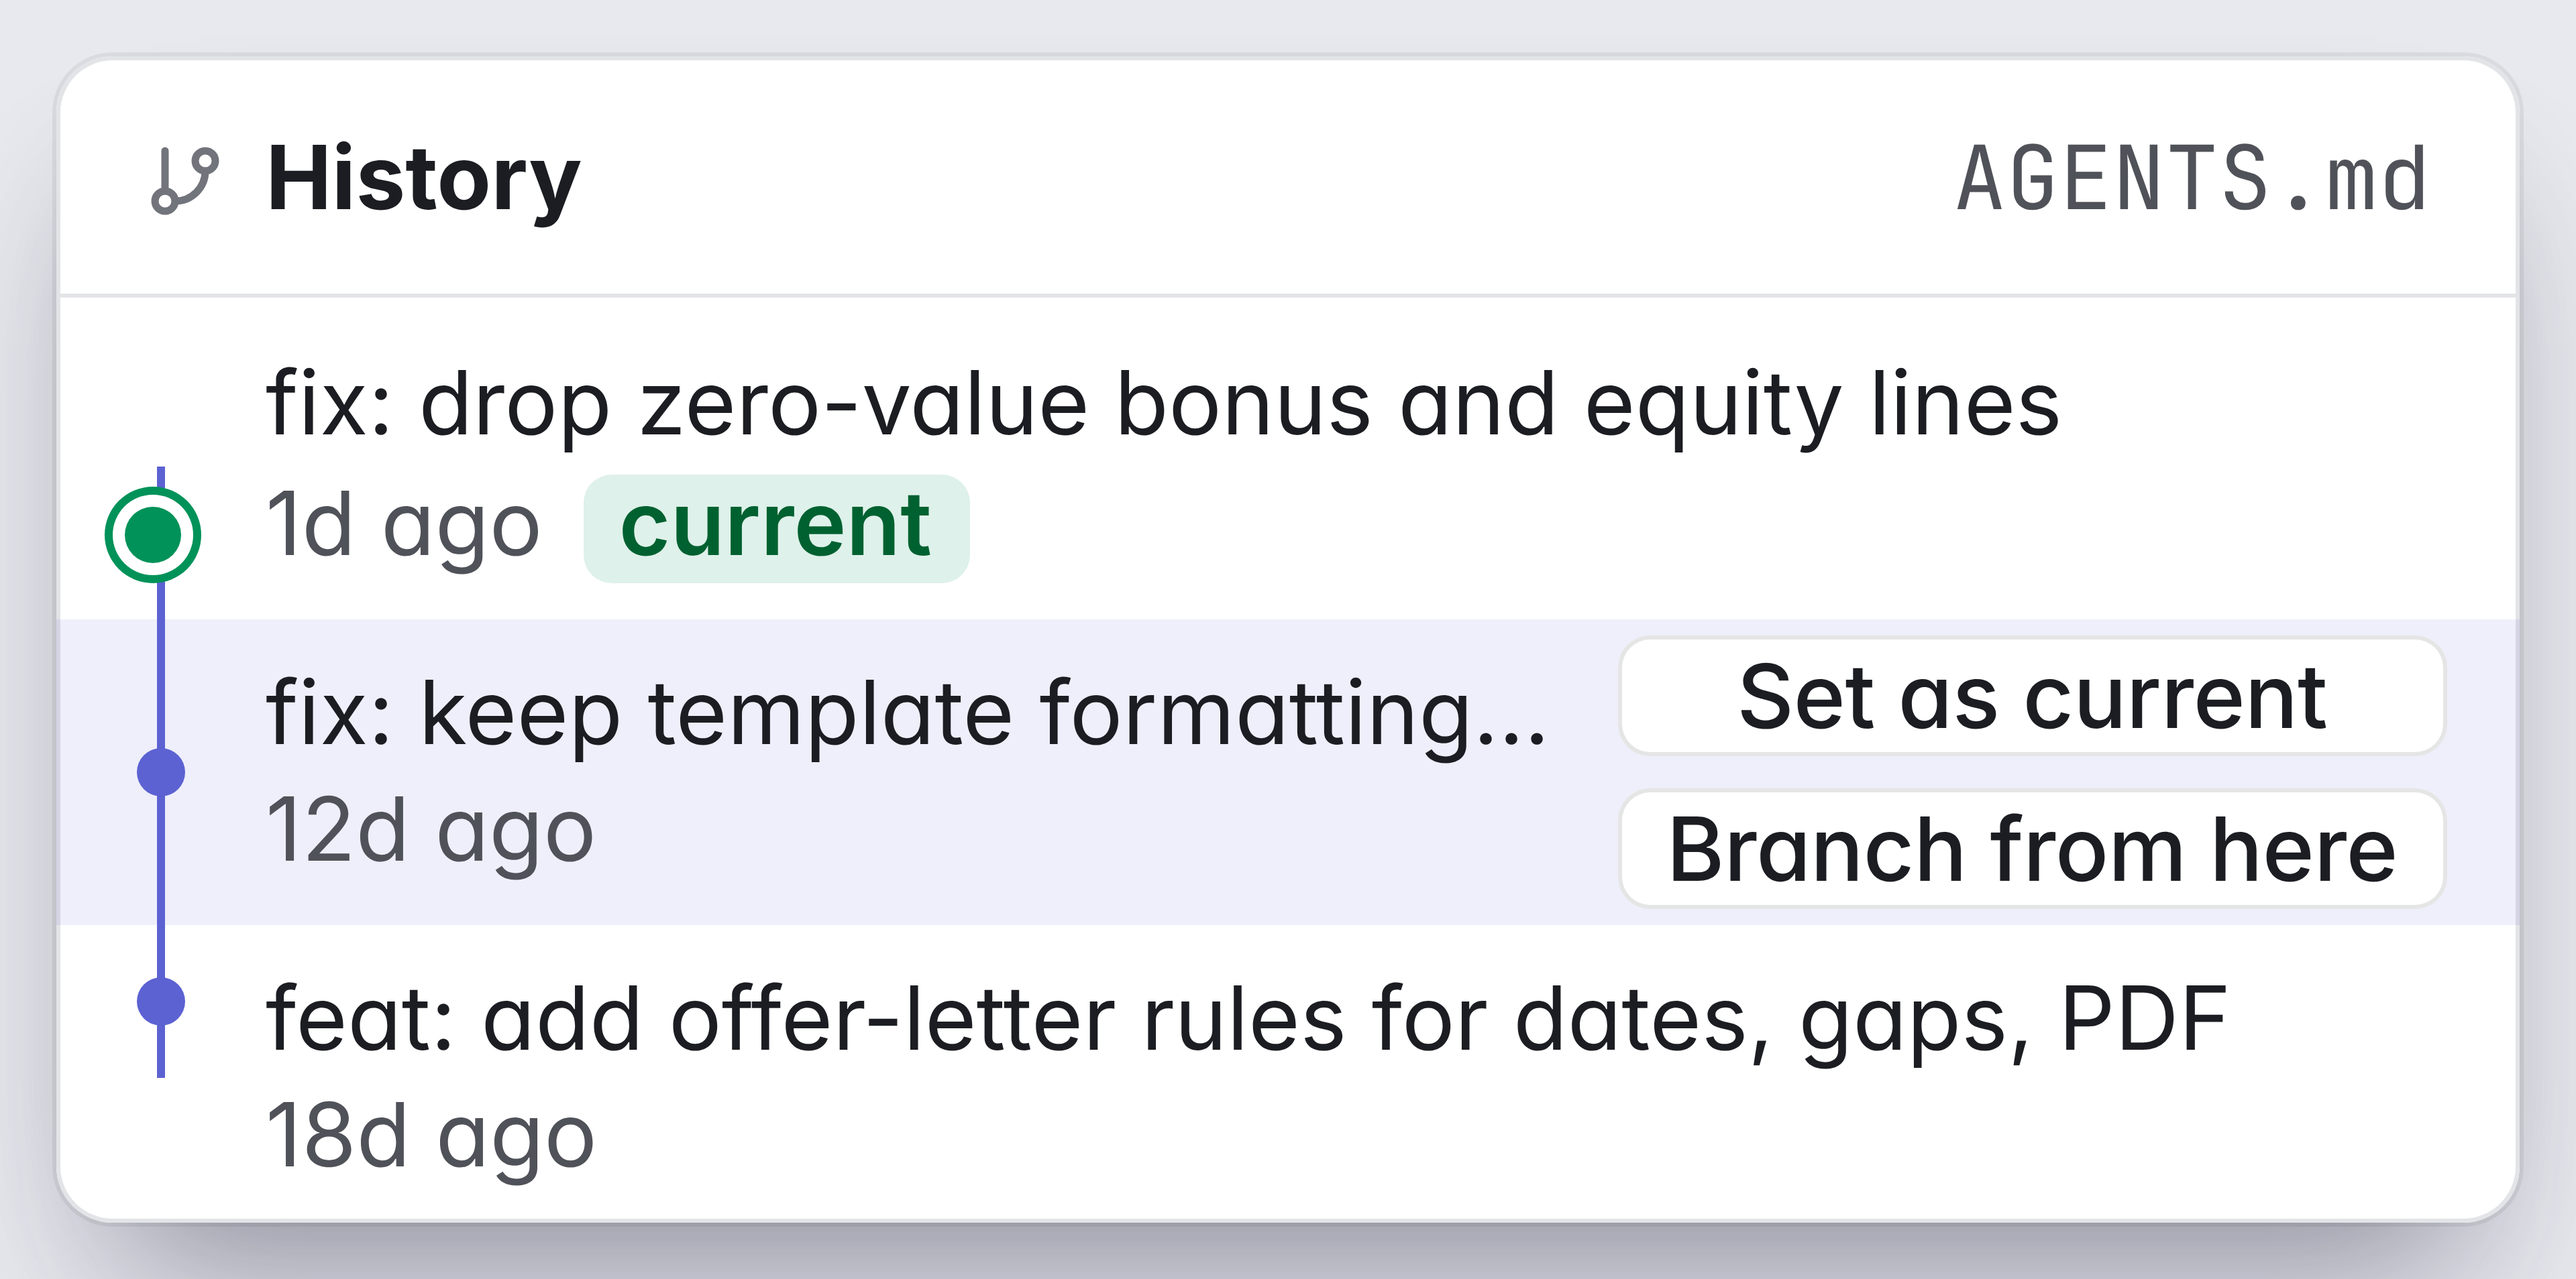
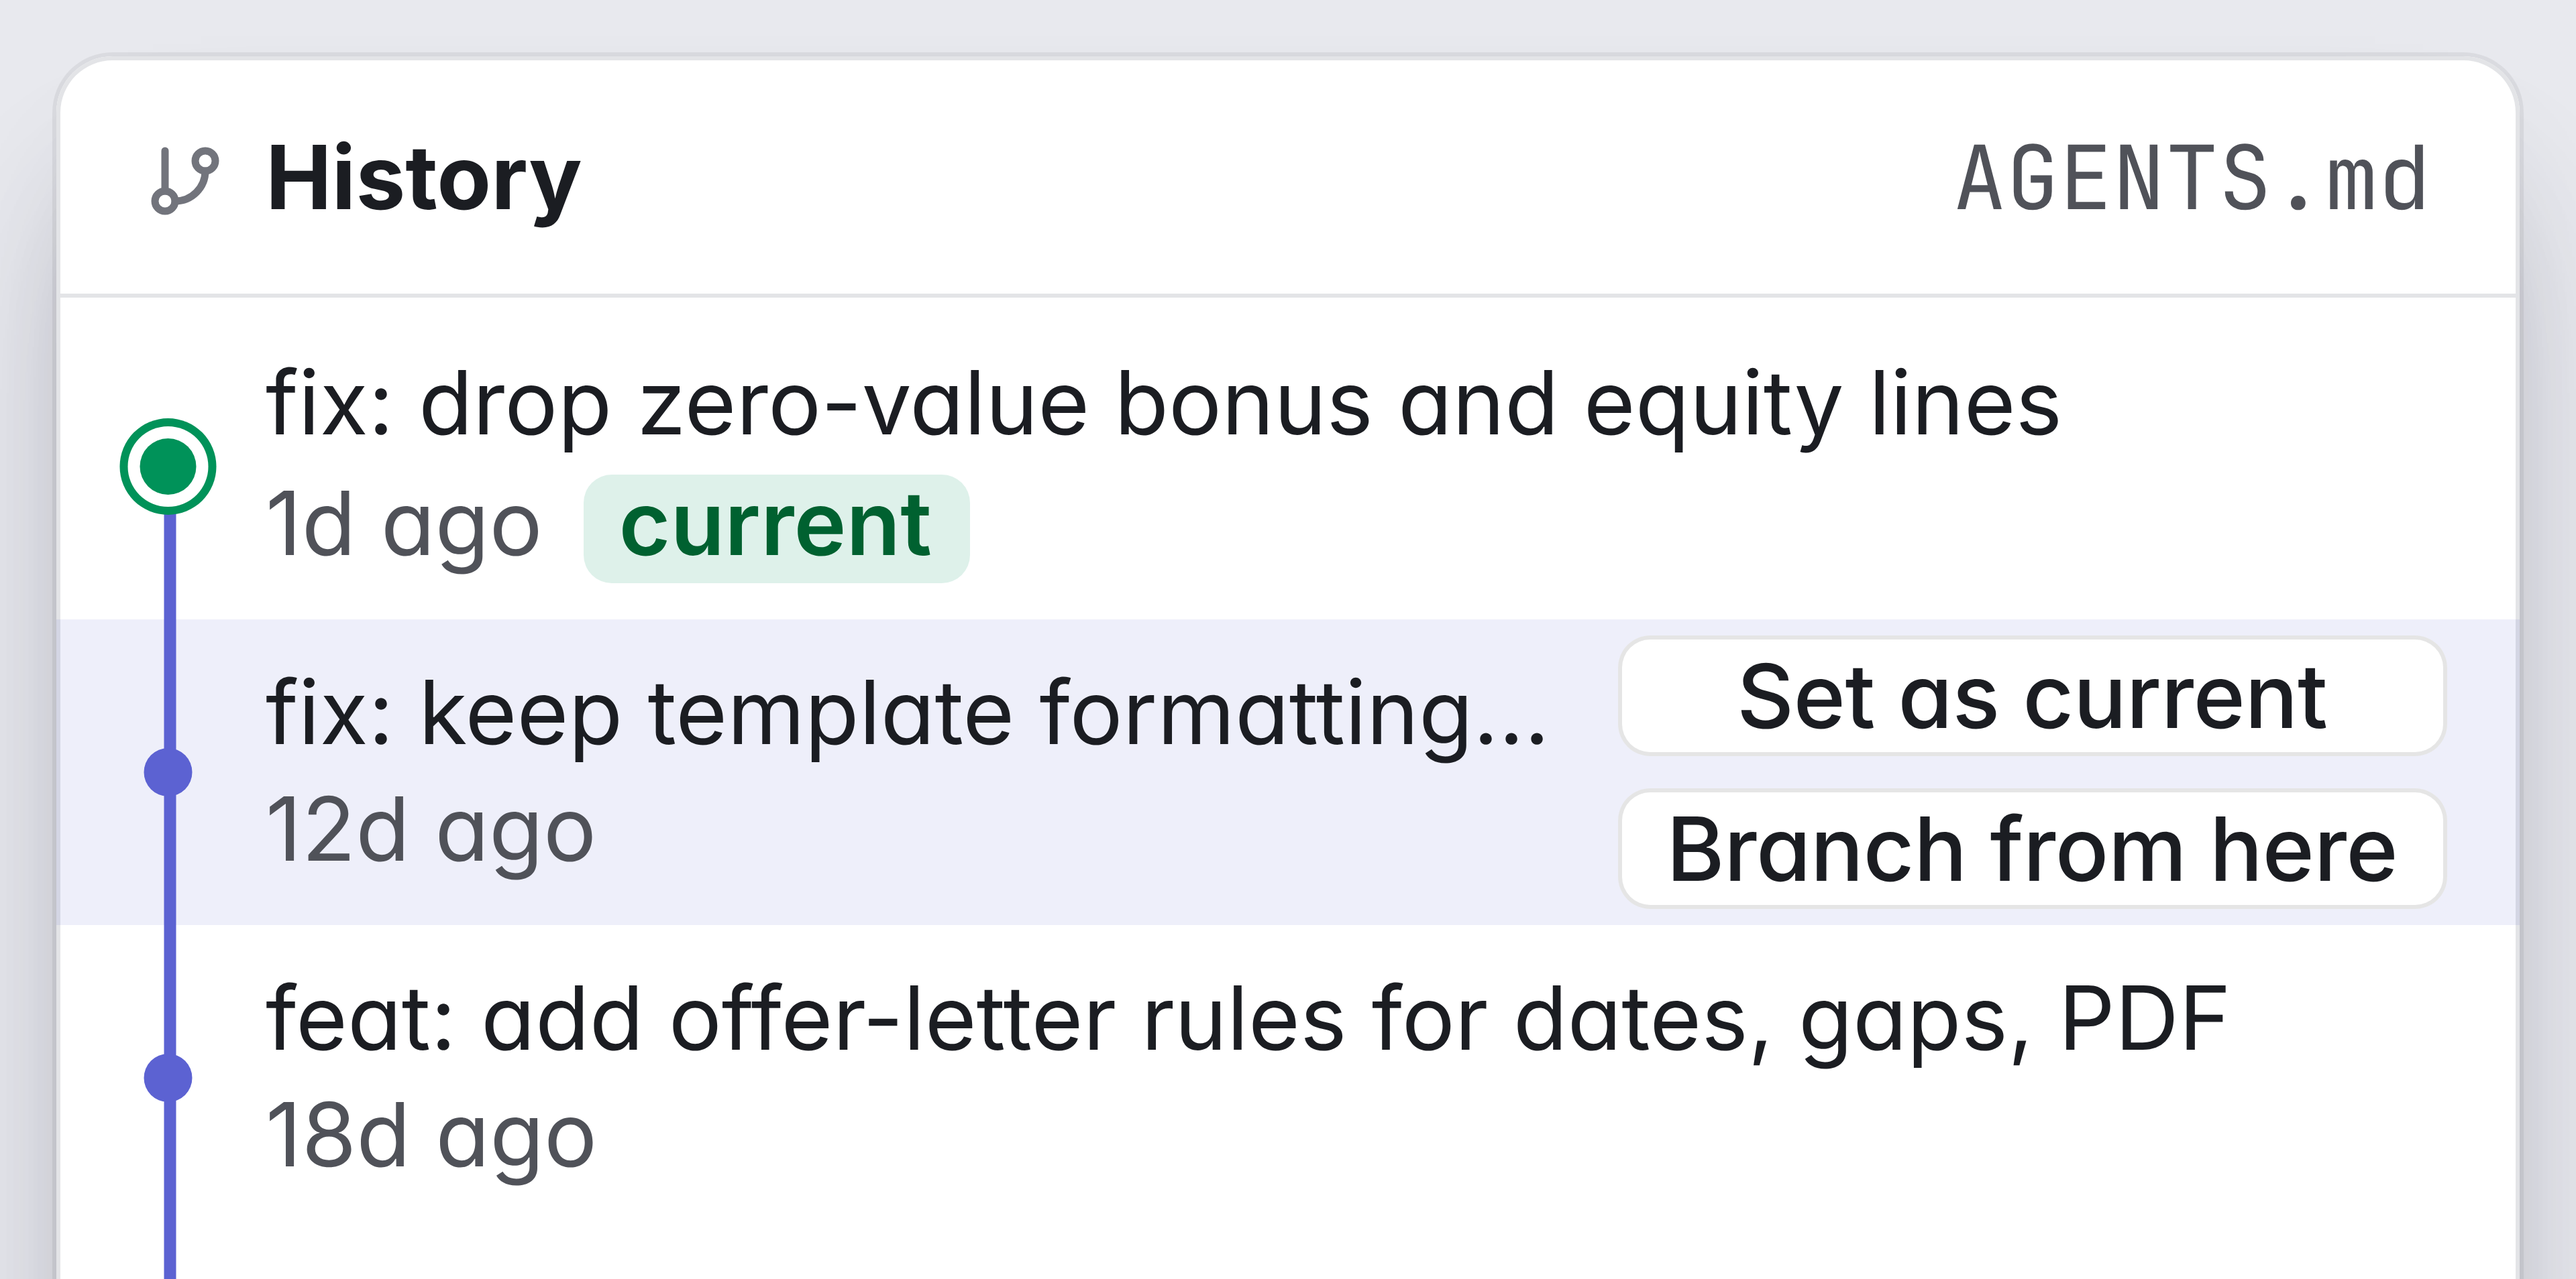
Poster still 5 draws the commit line through the dots
Center every commit dot on the line, start the line at the current
version and let it run past the last row, as on the Versions page where
older commits follow.

Changed region(s): [[0.0, 0.6184, 1.0, 1.0], [0.0312, 0.3092, 0.0938, 0.5875]]

diff --git a/poster/tools/stageshow/fin-s5/s5.css b/poster/tools/stageshow/fin-s5/s5.css
@@ -1,6 +1,6 @@
 .s5 {
   .s5-card {
-    position: absolute; top: 14px; left: 14px; right: 14px; bottom: 14px;
+    position: absolute; top: 14px; left: 14px; right: 14px; bottom: -60px;
     border-radius: 14px; background: var(--ss-surface); overflow: hidden;
     box-shadow: var(--ss-shadow-hero), inset 0 0 0 1px var(--h-line);
   }
@@ -8,14 +8,13 @@
   .s5-hicon { color: var(--ss-text-faint); }
   .s5-h { font-size: 22px; font-weight: 650; color: var(--ss-text-strong); }
   .s5-id { margin-left: auto; font-size: 22px; color: var(--ss-text); }
-  .s5-list { padding: 4px 0 8px; }
+  .s5-list { padding: 4px 0 0; }
   .s5-row { position: relative; display: flex; align-items: center; gap: 14px; height: 76px; padding: 0 18px 0 52px; }
   .s5-row[data-selected] { background: var(--ss-accent-soft); }
-  .s5-node { position: absolute; left: 25px; top: 0; bottom: 0; width: 0; border-left: 2.5px solid var(--h-accent); }
+  .s5-node { position: absolute; left: 28px; top: 0; bottom: 0; width: 2.5px; transform: translateX(-50%); background: var(--h-accent); }
   .s5-node[data-top] { top: 50%; }
-  .s5-node[data-last] { bottom: 50%; }
-  .s5-node::after { content: ''; position: absolute; left: -7.5px; top: calc(50% - 6px); width: 12px; height: 12px; border-radius: 50%; background: var(--h-accent); }
-  .s5-node[data-current]::after { left: -10.5px; top: calc(50% - 9px); width: 14px; height: 14px; background: var(--h-green); box-shadow: 0 0 0 3px var(--ss-surface), 0 0 0 5px var(--h-green); }
+  .s5-node::after { content: ''; position: absolute; left: 50%; top: 50%; width: 12px; height: 12px; border-radius: 50%; transform: translate(-50%, -50%); background: var(--h-accent); }
+  .s5-node[data-current]::after { top: 0; width: 14px; height: 14px; background: var(--h-green); box-shadow: 0 0 0 3px var(--ss-surface), 0 0 0 5px var(--h-green); }
   .s5-text { display: flex; flex-direction: column; gap: 3px; min-width: 0; flex: 1; }
   .s5-title { font-size: 22px; line-height: 27px; color: var(--ss-text-strong); white-space: nowrap; overflow: hidden; text-overflow: ellipsis; }
   .s5-meta { display: flex; align-items: center; gap: 10px; font-size: 22px; line-height: 24px; color: var(--ss-text); }

diff --git a/poster/tools/stageshow/fin-s5/index.tsx b/poster/tools/stageshow/fin-s5/index.tsx
@@ -1,5 +1,5 @@
 import { GitBranch } from 'lucide-react'
-import { Button, Stage } from '../../kit'
+import { Bar, Button, Stage } from '../../kit'
 import '../_hone/hone.css'
 import './s5.css'
 
@@ -8,11 +8,12 @@ import './s5.css'
 // title; the current version is marked, and the selected older one shows the
 // page's own actions. Type is at least 20px so it prints at 8.5 mm or more.
 
-type V = { title: string; ago: string; current?: boolean; selected?: boolean }
+type V = { title: string; ago: string; current?: boolean; selected?: boolean; filler?: boolean }
 const VERSIONS: V[] = [
   { title: 'fix: drop zero-value bonus and equity lines', ago: '1d ago', current: true },
   { title: 'fix: keep template formatting in DOCX and PDF', ago: '12d ago', selected: true },
   { title: 'feat: add offer-letter rules for dates, gaps, PDF', ago: '18d ago' },
+  { title: '', ago: '', filler: true },
 ]
 
 export default function FinS5() {
@@ -28,11 +29,11 @@ export default function FinS5() {
           <div className="s5-list">
             {VERSIONS.map((v, i) => (
               <div key={i} className="s5-row" data-selected={v.selected || undefined}>
-                <span className="s5-node" data-current={v.current || undefined} data-top={i === 0 || undefined} data-last={i === VERSIONS.length - 1 || undefined} />
-                <div className="s5-text">
+                <span className="s5-node" data-current={v.current || undefined} data-top={i === 0 || undefined} />
+                {v.filler ? <div className="s5-text"><Bar w={300} h={11} r={5.5} tone={2} /><Bar w={90} h={11} r={5.5} tone={1} /></div> : <div className="s5-text">
                   <span className="s5-title">{v.title}</span>
                   <span className="s5-meta">{v.ago}{v.current && <b className="s5-tag">current</b>}</span>
-                </div>
+                </div>}
                 {v.selected && (
                   <div className="s5-actions">
                     <Button size="large">Set as current</Button>
